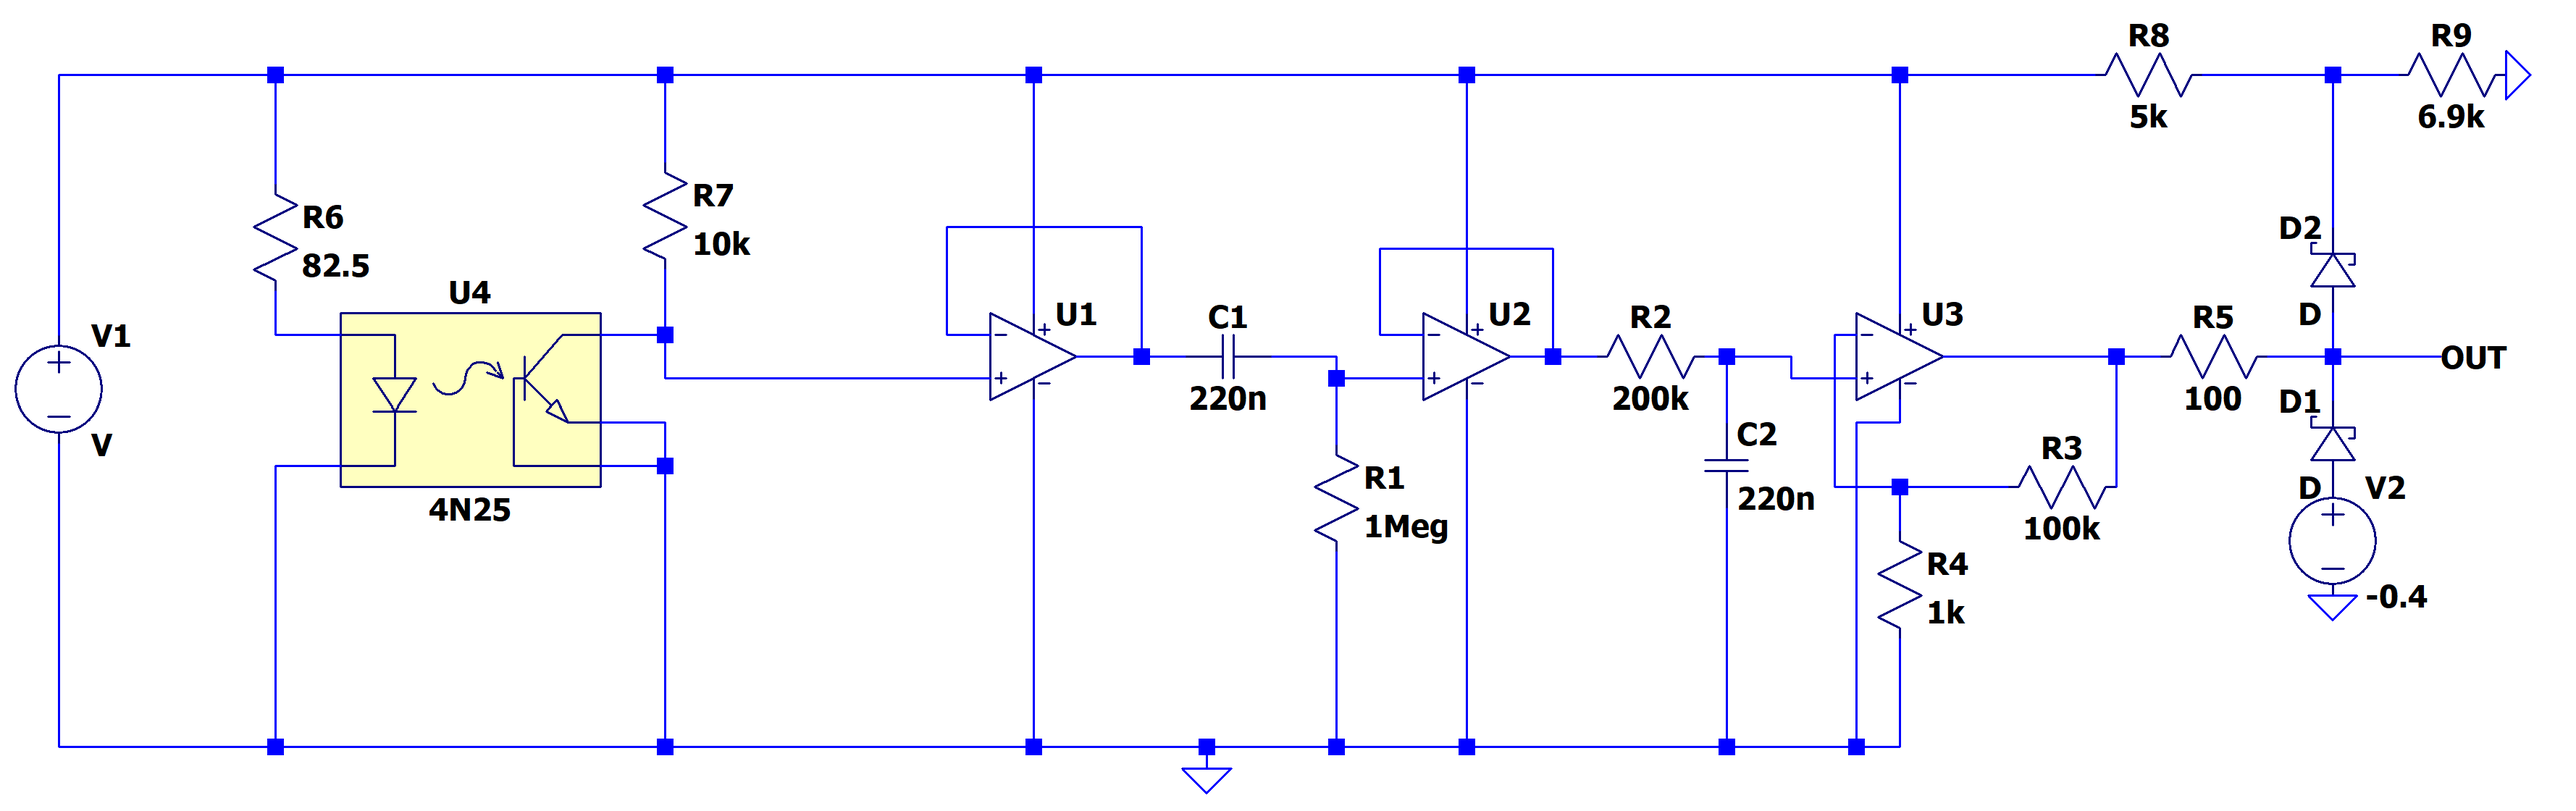
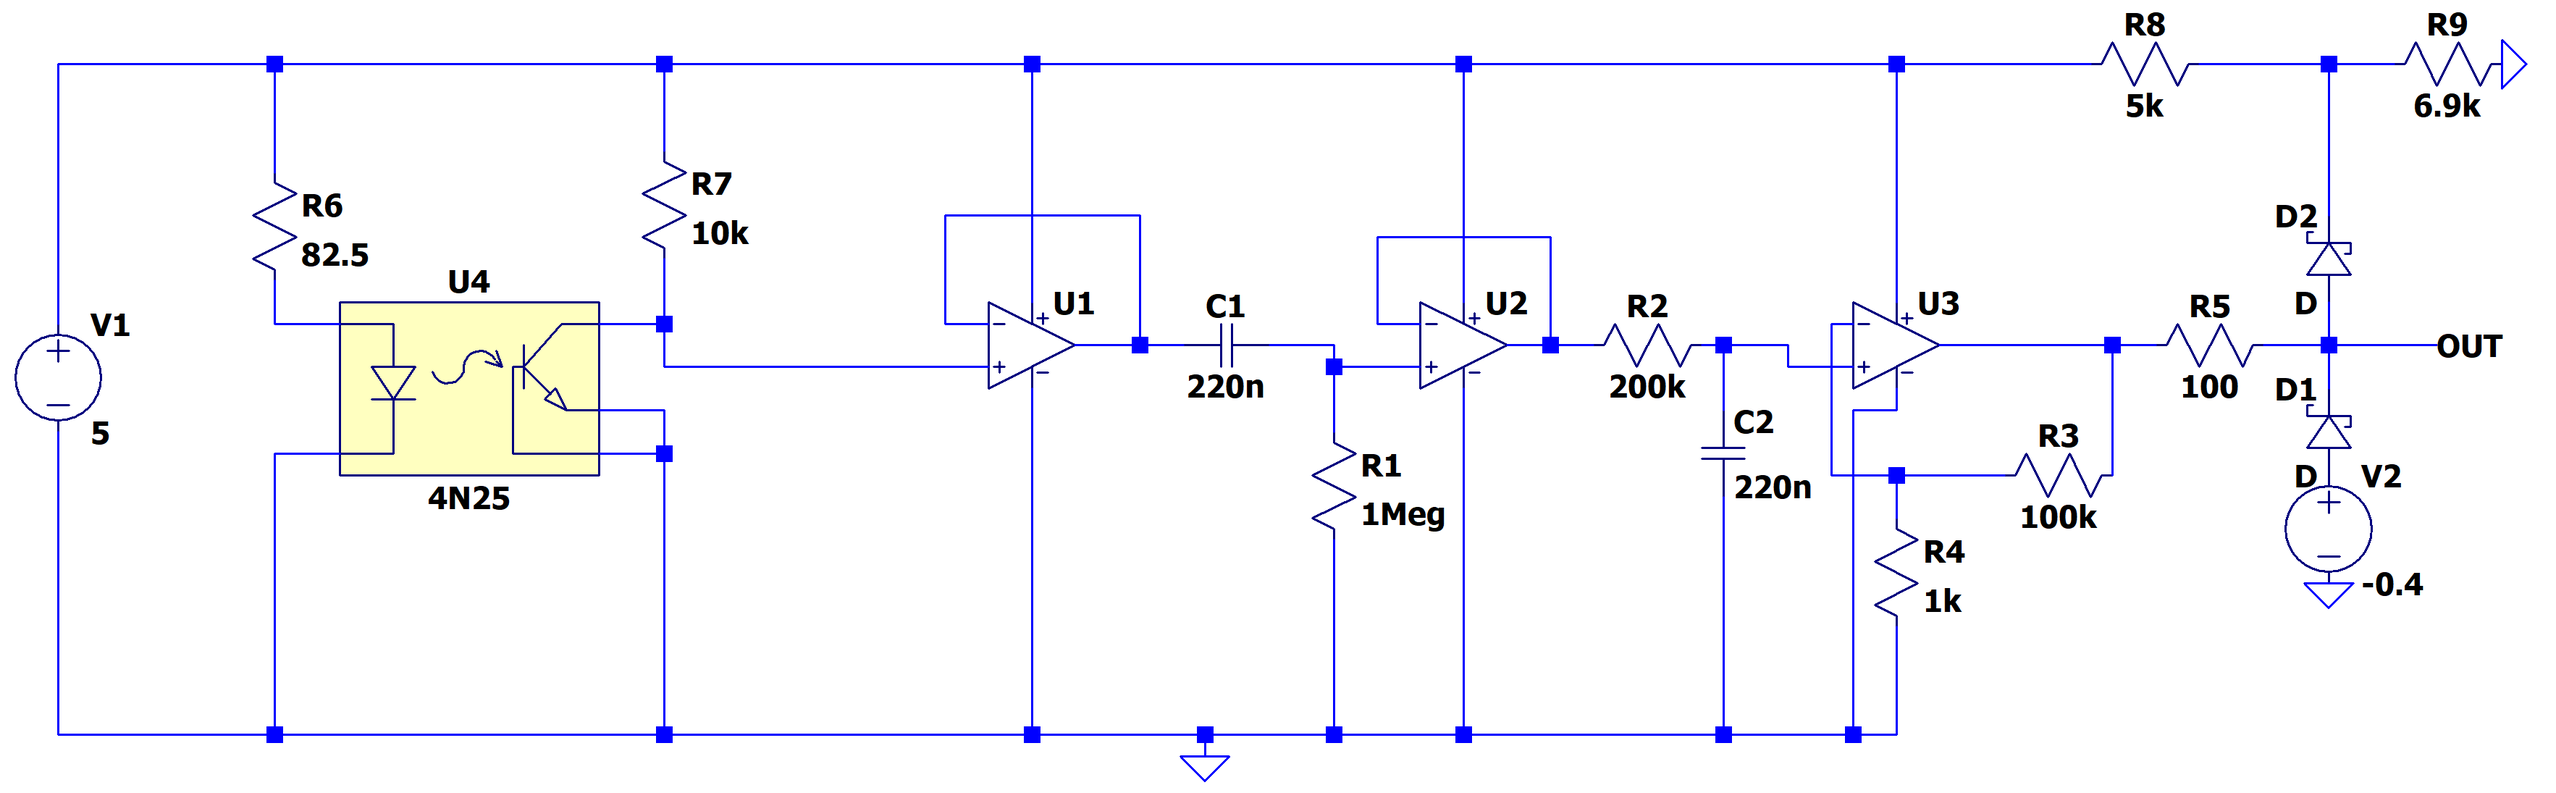
working on design methodology

diff --git a/lab08/report.tex b/lab08/report.tex
@@ -22,9 +22,32 @@
 
 \section*{Abstract}
 
-This laboratory exercise involved the design and construction of a heartbeat detection circuit. For the detection of a heartbeat, a OPB745 reflective optical sensor can be used. This device will emit light through a finger and ideally measure reflected light which varies with the pulse within the arteries of a finger. The signal output is then filtered with a low pass filter and a high pass filter to exclude frequencies outside an expected range of heart rates. The resulting signal is then amplified by an op amp to get a more useable signal. This circuit was designed, simulated using LTspice, constructed on a breadboard, and measured. C code was written with an MSP432 microcontroller which would measure pulse based on the output of the constructed circuit. This exercise also includes the design of a PCB with the same heartbeat detection circuit. This exercise was partially successful since the circuit constructed behaved as expected with an oscilloscope generated sinusoidal signal. The circuit output was accurately used by the MSP432 to detect frequency in beats per minute. The circuit constructed was unable to detect a heartbeat using the OPB745 and the PCB was not designed. 
+This laboratory exercise involved the design and construction of a heartbeat detection circuit. For the detection of a heartbeat, a OPB745 reflective optical sensor can be used. This device will emit light through a finger and ideally measure reflected light which varies with the pulse within the arteries of a finger. The signal output is then filtered with a low pass filter and a high pass filter to exclude frequencies outside an expected range of heart rates. The resulting signal is then amplified by an op amp to get a more useable signal. This circuit was designed, simulated using LTspice, constructed on a breadboard, and measured. C code was written with an MSP432 microcontroller which would measure pulse based on the output of the constructed circuit. This exercise also includes the design of a PCB with the same heartbeat detection circuit. This exercise was partially successful since the circuit constructed behaved as expected with an oscilloscope generated sinusoidal signal. The circuit output was accurately used by the MSP432 to detect frequency in beats per minute. The circuit constructed was unable to detect a heartbeat using the OPB745 and the PCB was not designed.
 
 \section*{Design Methodology}
+
+A PPG is an instrument used to measure changes in blood volume under the skin. One use of this is to measure heart rate. A circuit was designed with the intent to measure pulse within a finger using a OPB745 reflective optical sensor. 
+
+\begin{figure}[H]
+    \centering
+    \includegraphics[width=1\textwidth]{LTspiceCompleteSchematic.png}
+    \caption{LTspice Schematic}
+    \label{fig:ltspiceCompleteSchematic}
+\end{figure}
+
+Figure \ref{fig:ltspiceCompleteSchematic} shows the complete schematic designed. The 4N25 represents the OPB745. A 5V source is used to provide power to the OPB745, op amps, and a Schottky diode. Voltage division occurs between the 10k$\Omega$ rseistor and the photodetector. This signal then goes to voltage follower op amp which isolates the signal from the next stage. The signal is then filtered by a passive high pass RC filter. This filter has a cut off frequency of 0.7Hz which is 40bpm. The equation to for the high pass filter design is shown below.
+
+\begin{equation}
+R = \frac{1}{2*\pi*C*\text{f}_\text{c}} = \frac{1}{2*\pi*220nF*0.7Hz} = 1M\Omega \label{eq:HighPass}
+\end{equation}
+
+With a cut off frequency of 0.7Hz and a capacitor value of 220nF, \ref{eq:HighPass} shows that the appropriate resistor value is 1M$\Omega$. The signal from the high pass filter then goes through another voltage follower for isolation between stages. Next, the signal is filtered by a passive low pass RC filter. This filter has a cut off frequency of 3.5Hz which is 210bpm.  The equation to for the low pass filter design is shown below.
+
+\begin{equation}
+R = \frac{1}{2*\pi*C*\text{f}_\text{c}} = \frac{1}{2*\pi*220nF*3.5Hz} = 200k\Omega \label{eq:LowPass}
+\end{equation}
+
+With a cut off frequency of 3.5Hz and a capacitor value of 220nF, \ref{eq:LowPass} shows that the appropriate resistor value is 200k$\Omega$.
 
 \begin{figure}[H]
     \centering
